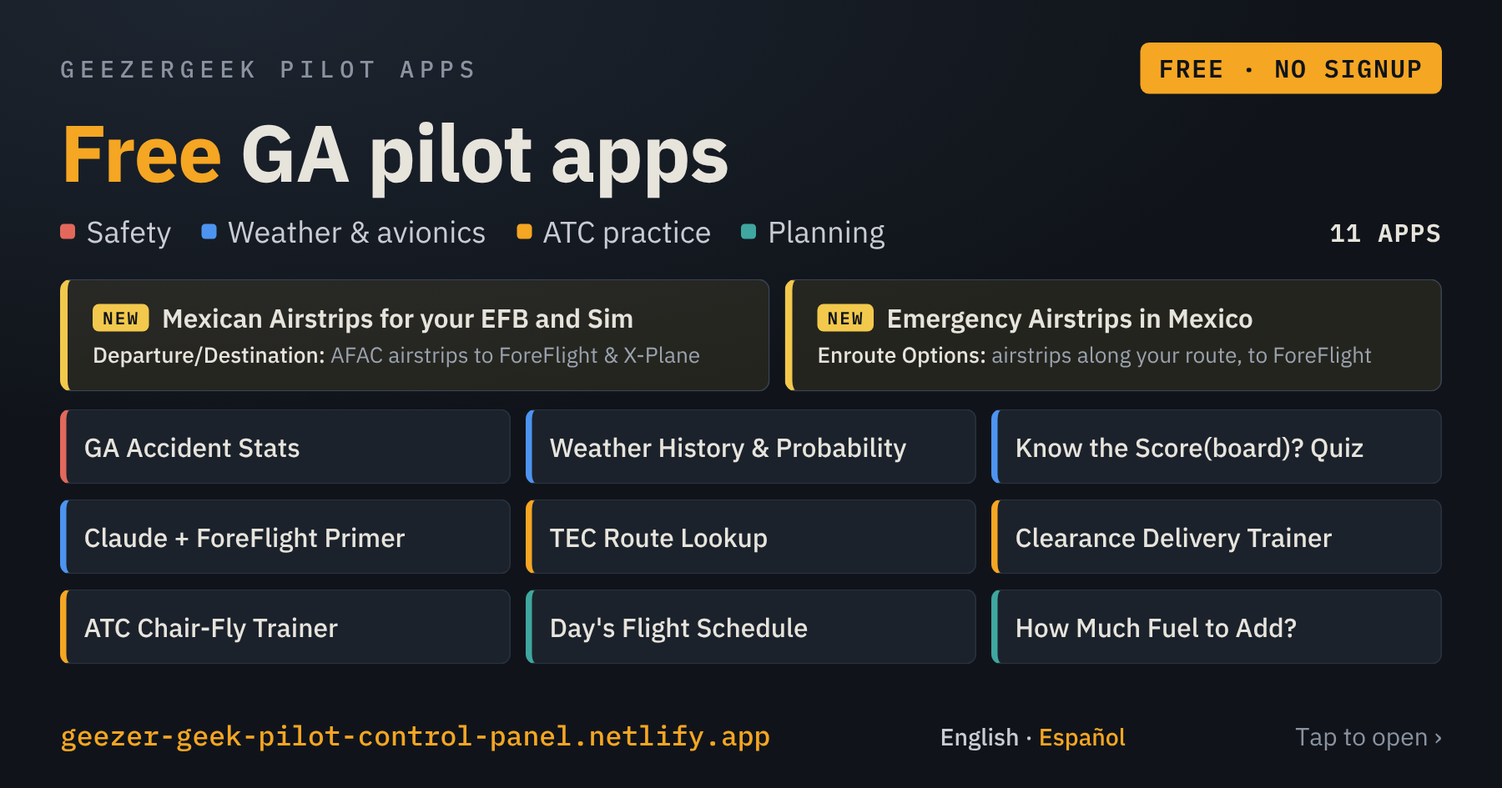
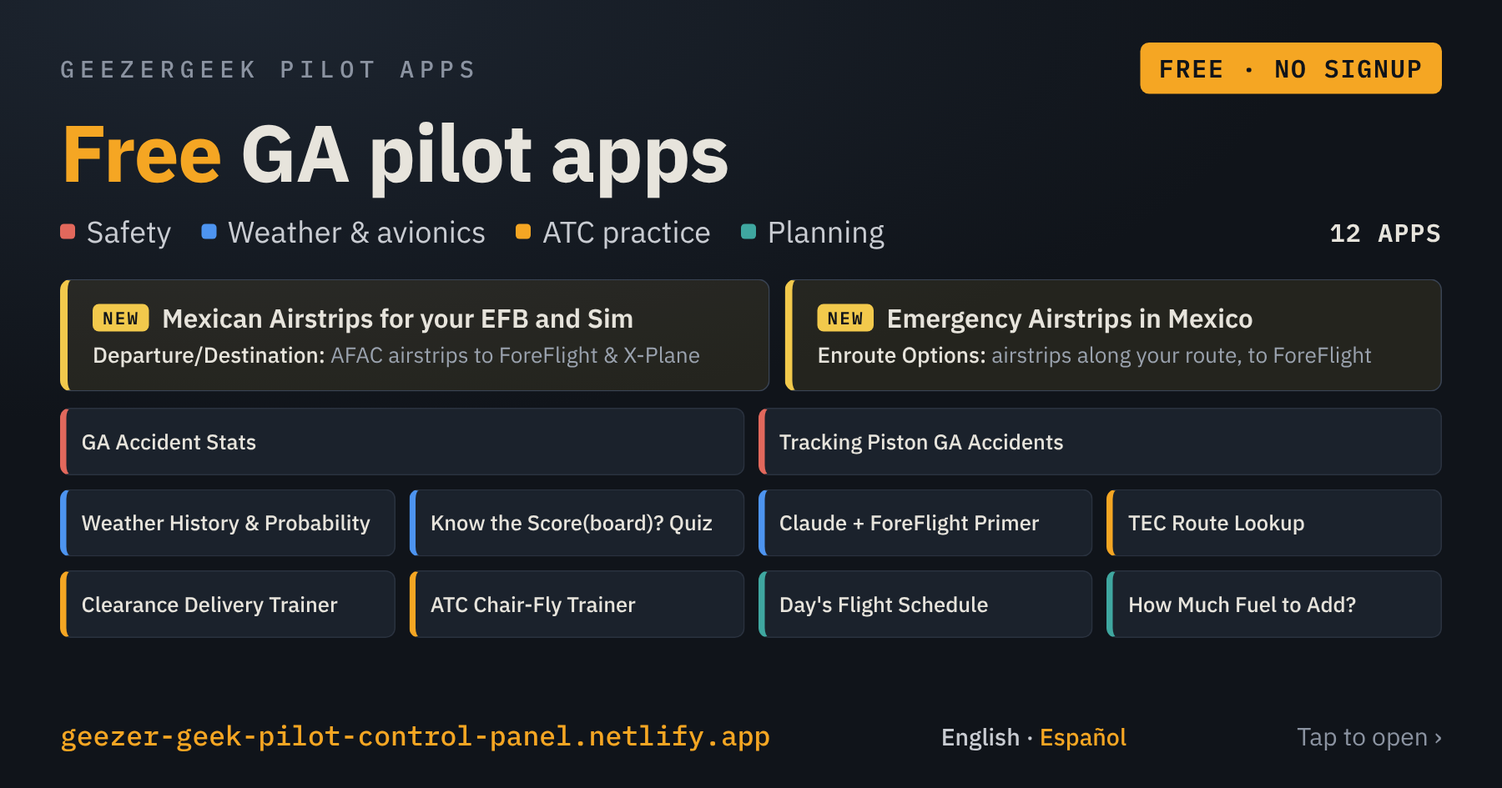
v1.40: Tracking Piston GA Accidents in Safety Stats beside GA Accident Stats; link previews re-rendered (twelve apps); Open Counts v1.9 and service check; footer v1.16 (site list)
Claude-Session: https://claude.ai/code/session_014tDpGvYMiU1pBc9Vr7wrJA

diff --git a/site/index.html b/site/index.html
@@ -13,11 +13,11 @@
 <meta property="og:site_name" content="GeezerGeek Pilot Apps">
 <meta property="og:title" content="GeezerGeek Pilot Apps: free tools for GA pilots">
 <meta property="og:description" content="Weather, planning, ATC practice and safety. Free, no signup, nothing to install.">
-<meta property="og:image" content="https://geezer-geek-pilot-control-panel.netlify.app/og-image.png?v=5">
+<meta property="og:image" content="https://geezer-geek-pilot-control-panel.netlify.app/og-image.png?v=6">
 <meta property="og:image:type" content="image/png">
 <meta property="og:image:width" content="1800">
 <meta property="og:image:height" content="945">
-<meta property="og:image:alt" content="GeezerGeek Pilot Apps: eleven free apps for GA pilots">
+<meta property="og:image:alt" content="GeezerGeek Pilot Apps: twelve free apps for GA pilots">
 <meta name="twitter:card" content="summary_large_image">
 <link rel="manifest" href="manifest.json">
 <link rel="icon" href="icons/icon-192.png" sizes="192x192" type="image/png">
@@ -409,11 +409,11 @@
     .launch-btn { transition: none; }
   }
 </style>
-<!-- GGP-FOOTER-CSS START v1.15 · 25-Nov-2026 · shared footer styles + language core, App Conventions §5b · master: Control Panel repo tools/ggp-footer -->
+<!-- GGP-FOOTER-CSS START v1.16 · 25-Nov-2026 · shared footer styles + language core, App Conventions §5b · master: Control Panel repo tools/ggp-footer -->
 <script>
 (function () {
   if (window.ggpLang) return;
-  var KEY = 'ggp-lang', I18N = true, SITES = ['geezer-geek-pilot-control-panel','weather-history-probability','digital-autopilots-quiz','tec-route-lookup','atc-chair-fly-trainer','days-flight-schedule','fuel-to-add','clearance-delivery','piston-ga-stats','claude-foreflight-primer','airfield-kml-builder','emergency-airstrips-mexico'];
+  var KEY = 'ggp-lang', I18N = true, SITES = ['geezer-geek-pilot-control-panel','weather-history-probability','digital-autopilots-quiz','tec-route-lookup','atc-chair-fly-trainer','days-flight-schedule','fuel-to-add','clearance-delivery','piston-ga-stats','claude-foreflight-primer','airfield-kml-builder','emergency-airstrips-mexico','tracking-piston-ga-accidents'];
   var q = null, saved = null, lang, explicit = false;
   try { q = new URLSearchParams(location.search).get('lang'); } catch (e) {}
   try { saved = localStorage.getItem(KEY); } catch (e) {}
@@ -575,7 +575,7 @@
       <h1><a class="title-link" href="qr.html" target="_blank" rel="noopener">GeezerGeek Pilot Apps</a></h1>
       <div class="hdr-right">
         <div class="ggp-lang-switch" role="group" aria-label="Language / Idioma"><button type="button" data-ggp-lang="en" lang="en">English</button><button type="button" data-ggp-lang="es" lang="es">Español</button></div>
-        <span class="ver mono">v1.39</span>
+        <span class="ver mono">v1.40</span>
       </div>
     </div>
     <p class="purpose-line" data-es="Hay quien dedica su retiro a ser voluntario en un banco de alimentos o en la Cruz Roja&hellip; yo llevo médicos en avioneta a México y asesoro a otros pilotos.">Some people spend their retirement volunteering at a food bank or the Red Cross&hellip; I fly doctors to Mexico and coach fellow pilots.</p>
@@ -677,7 +677,7 @@
 
       <section class="app-group g-safe" aria-labelledby="grp-safe">
         <h2 class="group-label" data-es="Estadísticas de seguridad" id="grp-safe">Safety Stats</h2>
-        <div class="app-row row-1">
+        <div class="app-row">   <!-- v1.40: two cards side by side from 620 px (was row-1) -->
           <a class="app-cell" href="https://piston-ga-stats.netlify.app/" data-es-aria-label="Abrir GA Accident Stats" aria-label="Open GA Accident Stats">
             <h3 class="app-name" data-es="GA Accident Stats<span class=&quot;en-only&quot;>solo en inglés</span>">GA Accident Stats</h3>
             <svg class="app-preview preview-wide" viewBox="0 0 400 104" role="img" aria-label="Type A versus Type B accident-rate bars with 95% range whiskers, and a funnel plot placing every type in its category against the category average">
@@ -710,6 +710,26 @@
               <circle cx="294" cy="46" r="3.8" fill="#4d94f0"/>
             </svg>
             <p class="app-desc" data-es="Compara tipos de pistón y turbohélice, del Cessna al PC-12, con los registros de accidentes de la NTSB desde 1982: tasas por cada 1,000 aeronaves registradas, dónde queda cada tipo dentro de su categoría (una gráfica de embudo con zoom) y qué suele salir mal.">Compare piston and turboprop types, Cessna to PC-12, using NTSB accident records back to 1982: rates per 1,000 registered aircraft, where each type sits in its category (a zoomable funnel plot), and what tends to go wrong.</p>
+          </a>
+          <a class="app-cell" href="https://tracking-piston-ga-accidents.netlify.app/" data-es-aria-label="Abrir Tracking Piston GA Accidents" aria-label="Open Tracking Piston GA Accidents">
+            <h3 class="app-name" data-es="Tracking Piston GA Accidents<span class=&quot;en-only&quot;>solo en inglés</span>">Tracking Piston GA Accidents</h3>
+            <svg class="app-preview preview-wide" viewBox="0 0 400 104" role="img" aria-label="The latest accident list with severity bars and a starred, watched airplane, beside a fatal-accident email ping and a watch on a case or N-number">
+              <rect width="400" height="104" fill="#1b222c"/>
+              <text x="10" y="16" font-family="monospace" font-size="7.5" fill="#8b93a1" letter-spacing="0.6">LATEST · NTSB</text>
+              <g font-family="monospace" font-size="9">
+                <rect x="10" y="24" width="214" height="16" rx="2" fill="#151b23"/><rect x="10" y="24" width="3" height="16" fill="#e0705f"/><text x="19" y="35" fill="#f5a623">N•••DL</text><text x="78" y="35" fill="#e7e4dc">SR22T</text><text x="160" y="35" fill="#e0705f">FATAL</text>
+                <rect x="10" y="44" width="214" height="16" rx="2" fill="#151b23"/><rect x="10" y="44" width="3" height="16" fill="#e0a05f"/><text x="19" y="55" fill="#f5a623">N•••9Y</text><text x="78" y="55" fill="#e7e4dc">C210</text><text x="160" y="55" fill="#e0a05f">SERIOUS</text>
+                <rect x="10" y="64" width="214" height="16" rx="2" fill="#151b23"/><rect x="10" y="64" width="3" height="16" fill="#3a4454"/><text x="19" y="75" fill="#f5a623">N•••1D</text><text x="78" y="75" fill="#e7e4dc">PA-28</text><text x="160" y="75" fill="#8b93a1">NONE</text>
+                <rect x="10" y="84" width="214" height="16" rx="2" fill="#151b23"/><rect x="10" y="84" width="3" height="16" fill="#3a4454"/><text x="19" y="95" fill="#f5a623">N•••GL</text><text x="78" y="95" fill="#e7e4dc">DA40</text><text x="160" y="95" fill="#8b93a1">MINOR</text><text x="210" y="95" fill="#f5a623">★</text>
+              </g>
+              <rect x="240" y="24" width="150" height="34" rx="4" fill="none" stroke="#e0705f" stroke-width="1.2"/>
+              <path d="M250,31 h22 v16 h-22 z M250,31 l11,9 l11,-9" fill="none" stroke="#e0705f" stroke-width="1.3"/>
+              <text x="280" y="38" font-family="monospace" font-size="9" fill="#e7e4dc">FATAL</text><text x="280" y="50" font-family="monospace" font-size="8" fill="#8b93a1">EMAIL PING</text>
+              <rect x="240" y="66" width="150" height="34" rx="4" fill="none" stroke="#f5a623" stroke-width="1.2"/>
+              <text x="250" y="88" font-family="monospace" font-size="14" fill="#f5a623">★</text>
+              <text x="268" y="80" font-family="monospace" font-size="9" fill="#e7e4dc">WATCH</text><text x="268" y="92" font-family="monospace" font-size="8" fill="#8b93a1">CASE / N-NUMBER</text>
+            </svg>
+            <p class="app-desc" data-es="Sigue los accidentes nuevos de aviones de pistón en EE. UU. conforme la NTSB los publica: la lista más reciente con cifras clave, un aviso por correo en cada accidente fatal y una lista de seguimiento por caso o matrícula que te avisa cuando la NTSB agrega un informe.">Follow new US piston accidents as NTSB posts them: the latest list with key stats, an email ping on every fatal accident, and a watch list for any case or N-number that tells you when NTSB adds a report.</p>
           </a>
           </div>
       </section>
@@ -955,7 +975,7 @@
 
     <p class="disclaimer" data-es="Aviso: no soy instructor de tierra ni instructor de vuelo. Toda la información es de carácter general y debe verificarse con un instructor de vuelo certificado y con tu propia investigación.">Disclaimer: I am neither a ground instructor nor a flight instructor. All information is for general background and should be verified with a certified flight instructor and your own research.</p>
 
-    <!-- GGP-FOOTER START v1.15 · 25-Nov-2026 · shared footer, App Conventions §5a · master: Control Panel repo tools/ggp-footer -->
+    <!-- GGP-FOOTER START v1.16 · 25-Nov-2026 · shared footer, App Conventions §5a · master: Control Panel repo tools/ggp-footer -->
 <footer class="ggp-footer">
   <div class="ggp-credit">Wayne McClelland (<a href="https://geezer-geek-pilot-control-panel.netlify.app/airports/" target="_blank" rel="noopener" data-es="aeropuertos visitados">airports visited</a>), <a href="https://youtube.com/@GeezerGeekPilot" target="_blank" rel="noopener">GeezerGeek Pilot</a>, <a href="https://geezer-geek-pilot-control-panel.netlify.app/reference" target="_blank" rel="noopener" data-es="Material de referencia">Reference Materials</a></div>
   <div class="ggp-count" id="ggpCount" data-base="300" data-href="stats/"></div>
@@ -1060,7 +1080,7 @@
     if (still || !g.classList.contains('is-new')) stillSvg(g);
   });
 </script>
-<!-- GGP-FOOTER-JS START v1.15 · 25-Nov-2026 · shared footer script, App Conventions §6a/§6b · master: Control Panel repo tools/ggp-footer -->
+<!-- GGP-FOOTER-JS START v1.16 · 25-Nov-2026 · shared footer script, App Conventions §6a/§6b · master: Control Panel repo tools/ggp-footer -->
 <script>
 (() => {
   if (window.__ggpFooter) return;
@@ -1180,6 +1200,7 @@
 </body>
 </html>
 <!-- v1.36 (24-Nov-2026): Mexican Airstrips card drops the robrc.net thanks (kept in the app); Emergency card ends "send the airstrip options to ForeFlight" (Wayne). -->
+<!-- v1.40 (25-Nov-2026): Tracking Piston GA Accidents card added to Safety Stats beside GA Accident Stats (not in New, no animation; Wayne); og-image.png and og-image-es.png re-rendered (?v=6, twelve apps). -->
 <!-- v1.35 (24-Nov-2026): New group: Mexican Airstrips and Planning Emergency Airstrips cards side by side, Mexican Airstrips first, shorter descriptions with bold lead-ins (Wayne). -->
 <!-- v1.34 (23-Nov-2026): airstrip dots on the Emergency Airstrips card are green (Wayne). -->
 <!-- v1.33 (23-Nov-2026): Planning Emergency Airstrips in Mexico moves into New, above Mexican Airstrips, with an animated card (tools/new-card/emergency-airstrips-animated.py) until 22-Jan-2027, then back to Time, Route & Fuel Planning; each New card carries its own expiry date and home group (Wayne). -->

diff --git a/site/stats/index.html b/site/stats/index.html
@@ -85,11 +85,11 @@ body{margin:0;min-height:100dvh;display:flex;flex-direction:column;align-items:c
 .fine p{margin:0 0 6px}
 .asof{font-family:var(--mono)}
 </style>
-<!-- GGP-FOOTER-CSS START v1.15 · 25-Nov-2026 · shared footer styles + language core, App Conventions §5b · master: Control Panel repo tools/ggp-footer -->
+<!-- GGP-FOOTER-CSS START v1.16 · 25-Nov-2026 · shared footer styles + language core, App Conventions §5b · master: Control Panel repo tools/ggp-footer -->
 <script>
 (function () {
   if (window.ggpLang) return;
-  var KEY = 'ggp-lang', I18N = false, SITES = ['geezer-geek-pilot-control-panel','weather-history-probability','digital-autopilots-quiz','tec-route-lookup','atc-chair-fly-trainer','days-flight-schedule','fuel-to-add','clearance-delivery','piston-ga-stats','claude-foreflight-primer','airfield-kml-builder','emergency-airstrips-mexico'];
+  var KEY = 'ggp-lang', I18N = false, SITES = ['geezer-geek-pilot-control-panel','weather-history-probability','digital-autopilots-quiz','tec-route-lookup','atc-chair-fly-trainer','days-flight-schedule','fuel-to-add','clearance-delivery','piston-ga-stats','claude-foreflight-primer','airfield-kml-builder','emergency-airstrips-mexico','tracking-piston-ga-accidents'];
   var q = null, saved = null, lang, explicit = false;
   try { q = new URLSearchParams(location.search).get('lang'); } catch (e) {}
   try { saved = localStorage.getItem(KEY); } catch (e) {}
@@ -247,7 +247,7 @@ body{margin:0;min-height:100dvh;display:flex;flex-direction:column;align-items:c
 </head>
 <body>
 <div class="rig">
-  <div class="callsign-row"><h1>App Open Counts</h1><span class="ver mono">v1.8</span></div>
+  <div class="callsign-row"><h1>App Open Counts</h1><span class="ver mono">v1.9</span></div>
   <p class="purpose-line"><span class="purpose-label">Purpose:</span> How many times each GeezerGeek Pilot app has been opened, and by how many visitors, each list most first. Reading these numbers doesn't add to them.</p>
 
   <div class="cards">
@@ -279,7 +279,7 @@ body{margin:0;min-height:100dvh;display:flex;flex-direction:column;align-items:c
   </div>
 </div>
 
-<!-- GGP-FOOTER START v1.15 · 25-Nov-2026 · shared footer, App Conventions §5a · master: Control Panel repo tools/ggp-footer -->
+<!-- GGP-FOOTER START v1.16 · 25-Nov-2026 · shared footer, App Conventions §5a · master: Control Panel repo tools/ggp-footer -->
 <footer class="ggp-footer" data-ggp-all="off">
   <div class="ggp-back"><a href="https://geezer-geek-pilot-control-panel.netlify.app/" data-es="&larr; Volver a las apps de GeezerGeek Pilot">&larr; Back to GeezerGeek Pilot Apps</a></div>
   <div class="ggp-credit">Wayne McClelland (<a href="https://geezer-geek-pilot-control-panel.netlify.app/airports/" target="_blank" rel="noopener" data-es="aeropuertos visitados">airports visited</a>), <a href="https://youtube.com/@GeezerGeekPilot" target="_blank" rel="noopener">GeezerGeek Pilot</a>, <a href="https://geezer-geek-pilot-control-panel.netlify.app/reference" target="_blank" rel="noopener" data-es="Material de referencia">Reference Materials</a></div>
@@ -304,6 +304,7 @@ body{margin:0;min-height:100dvh;display:flex;flex-direction:column;align-items:c
     { name: 'GeezerGeek Pilot Apps (Control Panel)', url: '../', g: 'g-panel', key: 'geezer-geek-pilot-control-panel', base: 300 },
     { name: 'Claude + ForeFlight Primer',      url: 'https://claude-foreflight-primer.netlify.app/',     g: 'g-new',  key: 'claude-foreflight-primer' },
     { name: 'GA Accident Stats',               url: 'https://piston-ga-stats.netlify.app/',              g: 'g-safe', key: 'piston-ga-stats' },
+    { name: 'Tracking Piston GA Accidents',    url: 'https://tracking-piston-ga-accidents.netlify.app/', g: 'g-safe', key: 'tracking-piston-ga-accidents', since: '25-Nov-2026' },   // v1.9
     { name: 'Weather History and Probability', url: 'https://weather-history-probability.netlify.app/',  g: 'g-wx',   key: 'weather-history-probability', base: 385, since: '09-Nov-2026' },
     { name: 'Know the Score(board)? – a Quiz', url: 'https://digital-autopilots-quiz.netlify.app/',      g: 'g-wx',   key: 'digital-autopilots-quiz' },
     { name: 'TEC Route Lookup',                url: 'https://tec-route-lookup.netlify.app/',             g: 'g-atc',  key: 'tec-route-lookup' },
@@ -395,6 +396,7 @@ body{margin:0;min-height:100dvh;display:flex;flex-direction:column;align-items:c
     ['geezer-geek-pilot-control-panel', 'GeezerGeek Pilot Apps (Control Panel)', '#f5a623'],
     ['claude-foreflight-primer', 'Claude + ForeFlight Primer', '#f2c94c'],
     ['piston-ga-stats', 'GA Accident Stats', '#e2685c'],
+    ['tracking-piston-ga-accidents', 'Tracking Piston GA Accidents', '#e2685c'],
     ['weather-history-probability', 'Weather History and Probability', '#4d94f0'],
     ['digital-autopilots-quiz', 'Know the Score(board)? – a Quiz', '#4d94f0'],
     ['tec-route-lookup', 'TEC Route Lookup', '#f5a623'],
@@ -519,7 +521,7 @@ body{margin:0;min-height:100dvh;display:flex;flex-direction:column;align-items:c
     .catch(() => { chart.innerHTML = '<div class="hist-empty">Daily history unavailable right now.</div>'; });
 })();
 </script>
-<!-- GGP-FOOTER-JS START v1.15 · 25-Nov-2026 · shared footer script, App Conventions §6a/§6b · master: Control Panel repo tools/ggp-footer -->
+<!-- GGP-FOOTER-JS START v1.16 · 25-Nov-2026 · shared footer script, App Conventions §6a/§6b · master: Control Panel repo tools/ggp-footer -->
 <script>
 (() => {
   if (window.__ggpFooter) return;

diff --git a/tools/og-card/card.html b/tools/og-card/card.html
@@ -1,7 +1,7 @@
 <!DOCTYPE html><html><head><meta charset="utf-8">
 <!-- Source for site/og-image.png (English) and site/og-image-es.png (Mexican Spanish, open card.html#es) — the link-preview card.
      Render at 1200x630, device scale 1.5 → 1800x945 PNG. Control Panel v1.37, 25-Nov-2026: both airstrip apps in the New row
-     (side by side, as on the Control Panel), the other nine in a 3×3 grid; Spanish twin for links shared with ?lang=es (Wayne). -->
+     (side by side, as on the Control Panel), the other nine in a 3×3 grid; v1.40 (25-Nov-2026): the two Safety apps share the first row, the other eight four to a row (12-column grid); Spanish twin for links shared with ?lang=es (Wayne). -->
 <link href="https://fonts.googleapis.com/css2?family=IBM+Plex+Mono:wght@500;600&family=IBM+Plex+Sans:wght@400;500;600;700&display=swap" rel="stylesheet"><style>
 *{box-sizing:border-box;margin:0}
 html,body{width:1200px;height:630px;overflow:hidden}
@@ -22,10 +22,13 @@ h1 em{font-style:normal;color:#f5a623}
 .nc .n{font-size:21px;font-weight:600;white-space:nowrap;overflow:hidden;text-overflow:ellipsis}
 .nc .d{font-size:17.5px;color:#9aa2ae;margin-top:4px;white-space:nowrap;overflow:hidden;text-overflow:ellipsis}
 .nc .d b{color:#e7e4dc;font-weight:500}
-.grid{display:grid;grid-template-columns:repeat(3,minmax(0,1fr));gap:12px;margin-top:14px}
-.t{background:#1b222c;border:1px solid #2a323f;border-left:5px solid var(--g);border-radius:8px;padding:0 14px;height:60px;display:flex;align-items:center;gap:10px;font-size:21px;overflow:hidden;font-weight:500;white-space:nowrap}
+.grid{display:grid;grid-template-columns:repeat(12,minmax(0,1fr));gap:11px;margin-top:13px}
+.t.w{grid-column:span 6}
+.t{background:#1b222c;border:1px solid #2a323f;border-left:5px solid var(--g);border-radius:8px;padding:0 12px;height:54px;display:flex;align-items:center;gap:8px;font-size:17px;grid-column:span 3;overflow:hidden;font-weight:500;white-space:nowrap}
 .t s{text-decoration:none;margin-left:auto;font-family:"IBM Plex Mono";font-size:12px;font-weight:500;letter-spacing:.06em;color:#8b93a1;border:1px solid #3a4454;border-radius:4px;padding:1px 5px;display:none}
 .es .t s{display:inline}
+.es .t{font-size:15px;gap:6px;padding:0 10px}
+.es .t s{font-size:11px;padding:0 4px}
 .foot{margin-top:auto;display:flex;justify-content:space-between;align-items:baseline;gap:20px}
 .url{font-family:"IBM Plex Mono";font-weight:500;font-size:22px;color:#f5a623}
 .lang{font-size:19px;color:#c9ccd2;font-weight:500}
@@ -39,7 +42,7 @@ h1 em{font-style:normal;color:#f5a623}
  <span><i style="background:#4d94f0"></i><t data-es="Meteorología y aviónica">Weather &amp; avionics</t></span>
  <span><i style="background:#f5a623"></i><t data-es="Práctica de ATC">ATC practice</t></span>
  <span><i style="background:#3fa7a0"></i><t data-es="Planeación">Planning</t></span>
- <b>11 APPS</b></div>
+ <b data-es="12 APPS">12 APPS</b></div>
 <div class="new">
  <div class="nc"><div class="h"><span class="badge" data-es="NUEVA">NEW</span><span class="n" data-es="Pistas mexicanas para tu EFB y simulador">Mexican Airstrips for your EFB and Sim</span></div>
   <div class="d" data-es="<b>Salida/Destino:</b> pistas de la AFAC a ForeFlight y X-Plane"><b>Departure/Destination:</b> AFAC airstrips to ForeFlight &amp; X-Plane</div></div>
@@ -47,7 +50,8 @@ h1 em{font-style:normal;color:#f5a623}
   <div class="d" data-es="<b>Opciones en ruta:</b> pistas a lo largo de tu ruta, a ForeFlight"><b>Enroute Options:</b> airstrips along your route, to ForeFlight</div></div>
 </div>
 <div class="grid">
- <div class="t" style="--g:#e2685c">GA Accident Stats<s>EN</s></div>
+ <div class="t w" style="--g:#e2685c">GA Accident Stats<s>EN</s></div>
+ <div class="t w" style="--g:#e2685c">Tracking Piston GA Accidents<s>EN</s></div>
  <div class="t" style="--g:#4d94f0">Weather History &amp; Probability<s>EN</s></div>
  <div class="t" style="--g:#4d94f0">Know the Score(board)? Quiz<s>EN</s></div>
  <div class="t" style="--g:#4d94f0">Claude + ForeFlight Primer<s>EN</s></div>

diff --git a/site/airports/index.html b/site/airports/index.html
@@ -91,11 +91,11 @@ body.embed .mapbox{height:calc(100vh - 168px)}
 body.embed .panel{margin-top:8px}
 .ripple{fill:none;stroke:#f5a623;pointer-events:none}
 </style>
-<!-- GGP-FOOTER-CSS START v1.15 · 25-Nov-2026 · shared footer styles + language core, App Conventions §5b · master: Control Panel repo tools/ggp-footer -->
+<!-- GGP-FOOTER-CSS START v1.16 · 25-Nov-2026 · shared footer styles + language core, App Conventions §5b · master: Control Panel repo tools/ggp-footer -->
 <script>
 (function () {
   if (window.ggpLang) return;
-  var KEY = 'ggp-lang', I18N = false, SITES = ['geezer-geek-pilot-control-panel','weather-history-probability','digital-autopilots-quiz','tec-route-lookup','atc-chair-fly-trainer','days-flight-schedule','fuel-to-add','clearance-delivery','piston-ga-stats','claude-foreflight-primer','airfield-kml-builder','emergency-airstrips-mexico'];
+  var KEY = 'ggp-lang', I18N = false, SITES = ['geezer-geek-pilot-control-panel','weather-history-probability','digital-autopilots-quiz','tec-route-lookup','atc-chair-fly-trainer','days-flight-schedule','fuel-to-add','clearance-delivery','piston-ga-stats','claude-foreflight-primer','airfield-kml-builder','emergency-airstrips-mexico','tracking-piston-ga-accidents'];
   var q = null, saved = null, lang, explicit = false;
   try { q = new URLSearchParams(location.search).get('lang'); } catch (e) {}
   try { saved = localStorage.getItem(KEY); } catch (e) {}
@@ -278,7 +278,7 @@ body.embed .panel{margin-top:8px}
   <div class="card panel empty" id="panel">Tap a pin for airport details.</div>
   <p class="fine">Data: Wayne's ForeFlight logbook (departure, destination and airports in the Route field), simulator sessions left out; snapshot of 22-Nov-2026. Names and coordinates from ForeFlight, or from the OurAirports database where ForeFlight's logbook lookup had none.</p>
 </div>
-<!-- GGP-FOOTER START v1.15 · 25-Nov-2026 · shared footer, App Conventions §5a · master: Control Panel repo tools/ggp-footer -->
+<!-- GGP-FOOTER START v1.16 · 25-Nov-2026 · shared footer, App Conventions §5a · master: Control Panel repo tools/ggp-footer -->
 <footer class="ggp-footer" data-ggp-all="off">
   <div class="ggp-back"><a href="https://geezer-geek-pilot-control-panel.netlify.app/" data-es="&larr; Volver a las apps de GeezerGeek Pilot">&larr; Back to GeezerGeek Pilot Apps</a></div>
   <div class="ggp-credit">Wayne McClelland, <a href="https://youtube.com/@GeezerGeekPilot" target="_blank" rel="noopener">GeezerGeek Pilot</a>, <a href="https://geezer-geek-pilot-control-panel.netlify.app/reference" target="_blank" rel="noopener" data-es="Material de referencia">Reference Materials</a></div>
@@ -514,7 +514,7 @@ if(qs.has('tour')){
 }catch(err){showErr(err)}
 })();
 </script>
-<!-- GGP-FOOTER-JS START v1.15 · 25-Nov-2026 · shared footer script, App Conventions §6a/§6b · master: Control Panel repo tools/ggp-footer -->
+<!-- GGP-FOOTER-JS START v1.16 · 25-Nov-2026 · shared footer script, App Conventions §6a/§6b · master: Control Panel repo tools/ggp-footer -->
 <script>
 (() => {
   if (window.__ggpFooter) return;

diff --git a/tools/ggp-footer/ggp_footer.py b/tools/ggp-footer/ggp_footer.py
@@ -20,7 +20,7 @@ import re
 import sys
 from pathlib import Path
 
-VERSION = 'v1.15 · 25-Nov-2026'
+VERSION = 'v1.16 · 25-Nov-2026'
 
 CONTROL_PANEL_URL = 'https://geezer-geek-pilot-control-panel.netlify.app/'
 # v1.14: the Control Panel's /reference function serves the Reference Materials Doc as an inline PDF
@@ -48,7 +48,8 @@ SHARE_TEXT = 'Planning, weather, ATC-practice and safety tools for GA pilots, fr
 # Switching language saves and reloads the page. Spanish is Mexican Spanish (tú), dates stay dd-mmm-yyyy (25-nov-2026).
 SITES = ['geezer-geek-pilot-control-panel', 'weather-history-probability', 'digital-autopilots-quiz', 'tec-route-lookup',
          'atc-chair-fly-trainer', 'days-flight-schedule', 'fuel-to-add', 'clearance-delivery', 'piston-ga-stats',
-         'claude-foreflight-primer', 'airfield-kml-builder', 'emergency-airstrips-mexico']   # <name>.netlify.app
+         'claude-foreflight-primer', 'airfield-kml-builder', 'emergency-airstrips-mexico',
+         'tracking-piston-ga-accidents']   # <name>.netlify.app (v1.16: + tracking-piston-ga-accidents)
 ES = {
     'back': '&larr; Volver a las apps de GeezerGeek Pilot',
     'airports': 'aeropuertos visitados',
@@ -106,6 +107,8 @@ APPS = {
     'airfield-kml-builder': dict(file='site/index.html', label='Mexican Airstrips for your EFB and Sim', es=True),
     # 23-Nov-2026: companion to Mexican Airstrips (Control Panel v1.32, Time, Route & Fuel Planning)
     'emergency-airstrips-mexico': dict(file='site/index.html', label='Planning Emergency Airstrips in Mexico', es=True),
+    # 25-Nov-2026: new app, on the Control Panel from v1.40 in Safety Stats
+    'tracking-piston-ga-accidents': dict(file='site/index.html', label='Tracking Piston GA Accidents'),
     'airports-visited': dict(repo='geezer-geek-pilot-control-panel', file='site/airports/index.html', label='Airports Visited',
                              credit_link=False, all_count=False),   # the page the credit links to
     # v1.4: open-counts page, linked from the Control Panel's "Opened N times" (Wayne, 02-Nov-2026)

diff --git a/tools/service-check/check.py b/tools/service-check/check.py
@@ -28,6 +28,7 @@ APPS = {   # Tally key -> live site
     'airfield-kml-builder': 'https://airfield-kml-builder.netlify.app/',
     'emergency-airstrips-mexico': 'https://emergency-airstrips-mexico.netlify.app/',   # 24-Nov-2026
     'piston-ga-stats': 'https://piston-ga-stats.netlify.app/',
+    'tracking-piston-ga-accidents': 'https://tracking-piston-ga-accidents.netlify.app/',   # 25-Nov-2026
     'weather-history-probability': 'https://weather-history-probability.netlify.app/',
     'digital-autopilots-quiz': 'https://digital-autopilots-quiz.netlify.app/',
     'tec-route-lookup': 'https://tec-route-lookup.netlify.app/',
